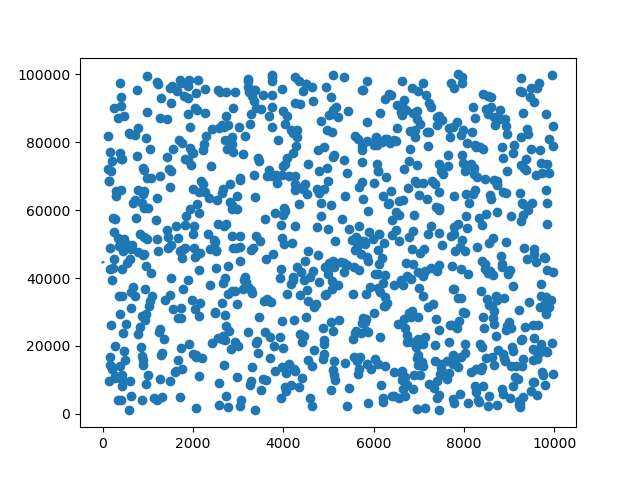
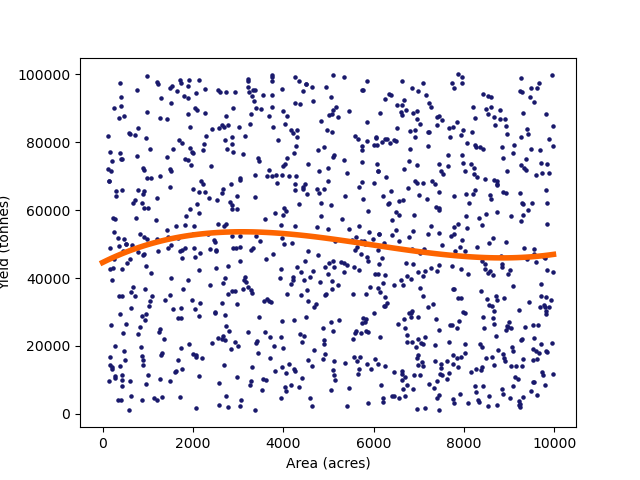
styling

Changed region(s): [[0.1562, 0.125, 0.875, 0.875], [0.4375, 0.9375, 0.5938, 1.0], [0.0, 0.4062, 0.0312, 0.5938]]

diff --git a/client/src/content.js b/client/src/content.js
@@ -8,6 +8,10 @@ import Select from '@material-ui/core/Select';
 import InsertDriveFileOutlinedIcon from '@material-ui/icons/InsertDriveFileOutlined';
 import MenuItem from '@material-ui/core/MenuItem';
 import CircularProgress from '@material-ui/core/CircularProgress';
+import Accordion from '@material-ui/core/Accordion';
+import AccordionSummary from '@material-ui/core/AccordionSummary';
+import AccordionDetails from '@material-ui/core/AccordionDetails';
+import ExpandMoreIcon from '@material-ui/icons/ExpandMore';
 
 const Title = styled.h1`
   color: #19196c;
@@ -32,6 +36,25 @@ const Crumb = styled.p`
 
 const Text = styled.p`
   font-family: Myriad-Light;
+  font-size: 1rem;
+`;
+
+const GreenHighlight = styled.span`
+  color: #36b065;
+  font-weight: bold;
+  font-family: Myriad-Light;
+  font-size: 1rem;
+`;
+
+const Neutral = styled.span`
+  font-family: Myriad-Light;
+  font-size: 1rem;
+`;
+
+const BlueHighlight = styled.span`
+  color: #19196c;
+  font-family: Myriad-Light;
+  font-weight: bold;
   font-size: 1rem;
 `;
 
@@ -80,7 +103,7 @@ const Content = () => {
           <Select
             labelId="demo-simple-select-label"
             id="demo-simple-select"
-            style={{ marginBottom: '1rem' }}
+            style={{ marginBottom: '1rem', minWidth: '10rem' }}
             value={selectedCrop}
             onChange={handleCropChange}
           >
@@ -96,9 +119,17 @@ const Content = () => {
             <CircularProgress />
           ) : (
             <>
+              <Subtitle>Statistics</Subtitle>
+              <Neutral>Based on your proposals, you are classified as a </Neutral>
+              <BlueHighlight>medium </BlueHighlight>
+              <Neutral>sized farm for crop: </Neutral>
+              <BlueHighlight>{crops[selectedCrop]}</BlueHighlight>
               <Subtitle>Area / Yield</Subtitle>
-
-              <img src={areaYieldPath} alt="graph of area vs yield" />
+              <Neutral>Your yield is </Neutral>
+              <GreenHighlight>slightly higher </GreenHighlight>
+              <Neutral>than the average of comparable farms.</Neutral>
+              <div />
+              <img src={areaYieldPath} alt="graph of area vs yield" style={{ width: '50%', height: 'auto' }} />
             </>
           )}
         </CardContent>

diff --git a/client/src/header.js b/client/src/header.js
@@ -19,6 +19,7 @@ const StyledLink = styled.a`
   padding: 0 12px;
   :hover {
     cursor: pointer;
+    color: #fd6400;
   }
 `;
 

diff --git a/server/engine/polynomial_model.py b/server/engine/polynomial_model.py
@@ -2,7 +2,7 @@ import sys
 import os
 import json
 import pandas as pd
-import numpy
+import numpy as np
 import matplotlib.pyplot as plt
 
 filepath = "./Yield_MOCK.csv"
@@ -12,12 +12,14 @@ df = pd.read_csv(filepath)
 x = df["Area"]
 y = df["Yield"]
 
-mymodel = numpy.poly1d(numpy.polyfit(x, y, 3))
+mymodel = np.poly1d(np.polyfit(x, y, 3))
 
-myline = numpy.linspace(1, 22, 100)
+myline = np.linspace(0, np.amax(x), 100)
 
-plt.scatter(x, y)
-plt.plot(myline, mymodel(myline))
+plt.scatter(x, y, 5, color="#19196c")
+plt.plot(myline, mymodel(myline), color="#fd6400", linewidth=4)
+plt.xlabel("Area (acres)")
+plt.ylabel("Yield (tonnes)")
 plt.savefig('../static/area-yield.png')
 
 output = {"filename": "area-yield.png"}
